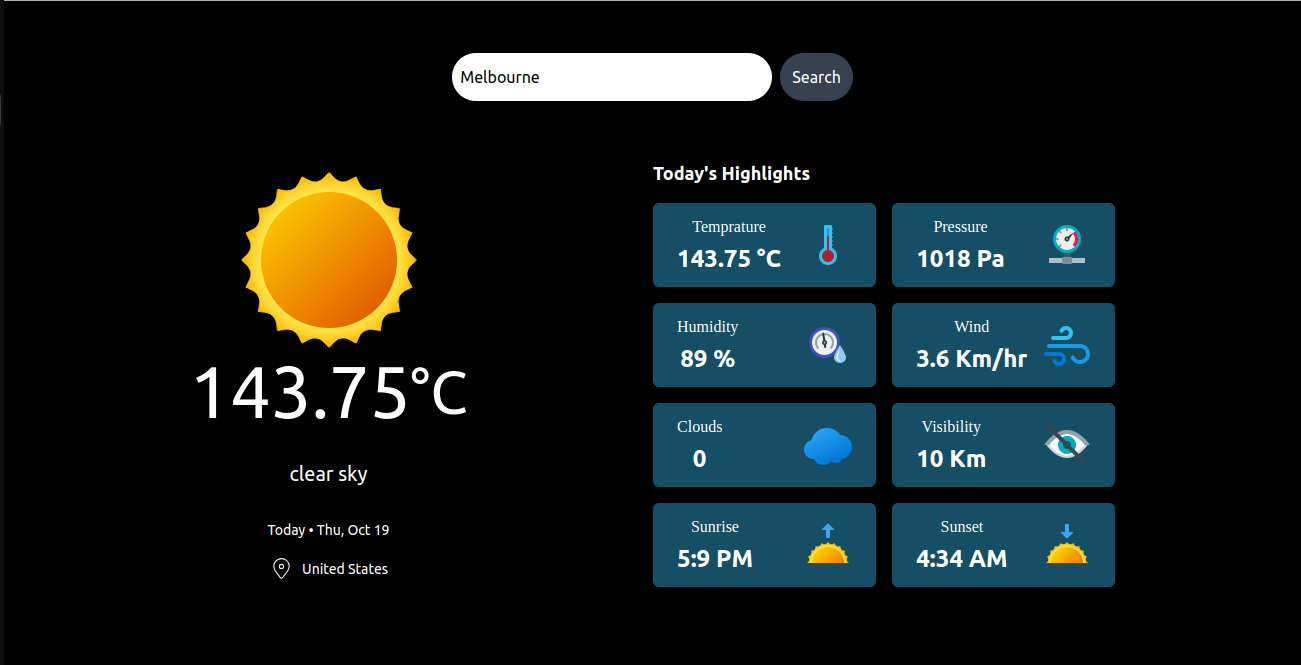
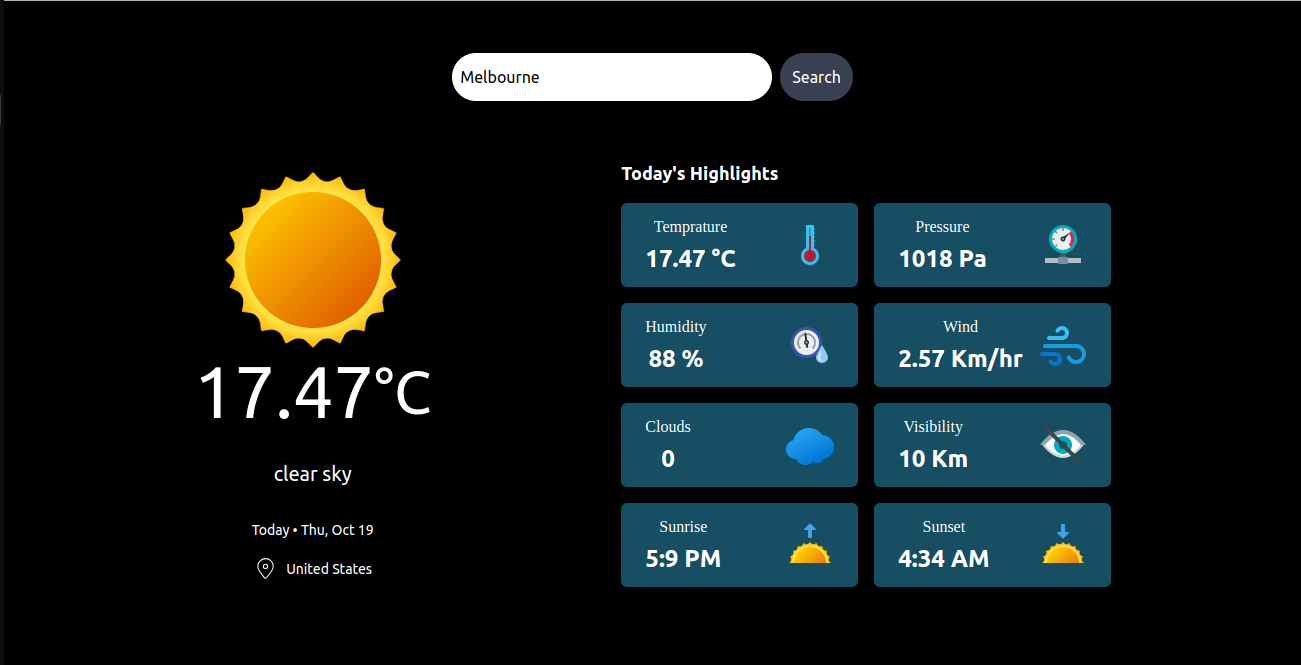
final

diff --git a/src/Components/Weather.js b/src/Components/Weather.js
@@ -46,7 +46,7 @@ const Weather = () => {
   const items = [
     {
       name: "Temprature",
-      data: weatherData ? ((weatherData.main.temp-32)/1.8).toFixed(2) : null,
+      data: weatherData ? (weatherData.main.temp-273.15).toFixed(2) : null,
       unit: "°C",
       image: temp
     },
@@ -115,7 +115,7 @@ const Weather = () => {
             <WeatherImage weatherType={weatherData.weather[0].main}/>
             <div className="flex-col justify-around items-center space-y-8">
               <div className="flex items-center justify-center text-7xl">
-                {((weatherData.main.temp-32)/1.8).toFixed(2)} 
+                {(weatherData.main.temp-273.15).toFixed(2)} 
                 <span className="text-6xl">°C</span>
               </div>
               <div className="flex items-center justify-center text-xl">
